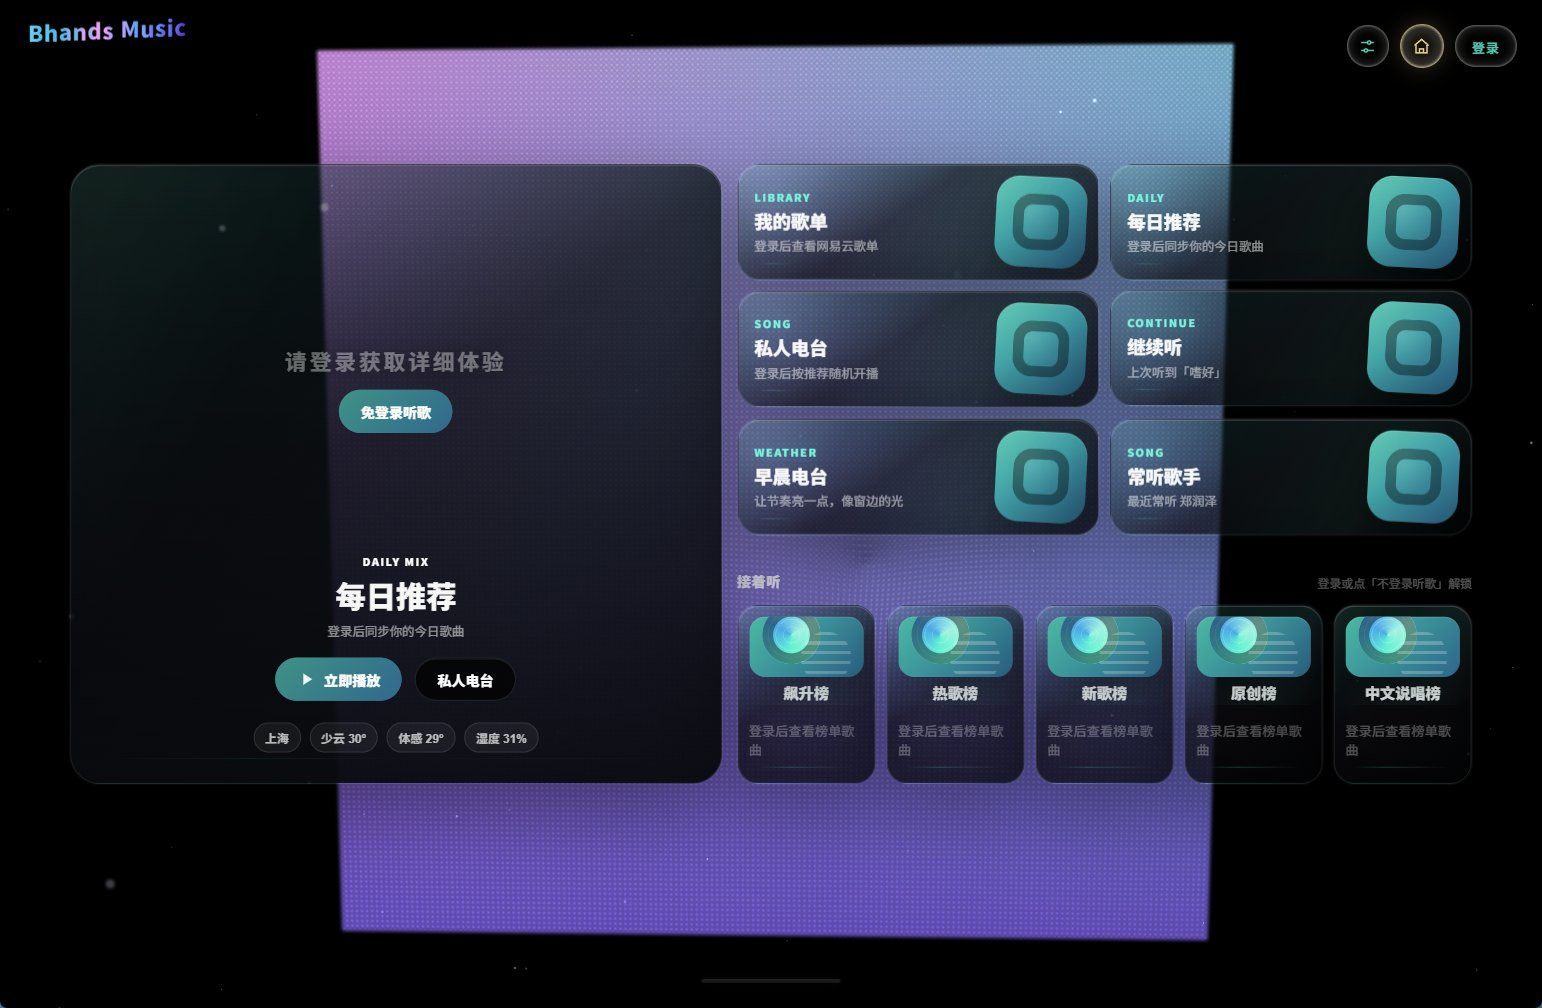
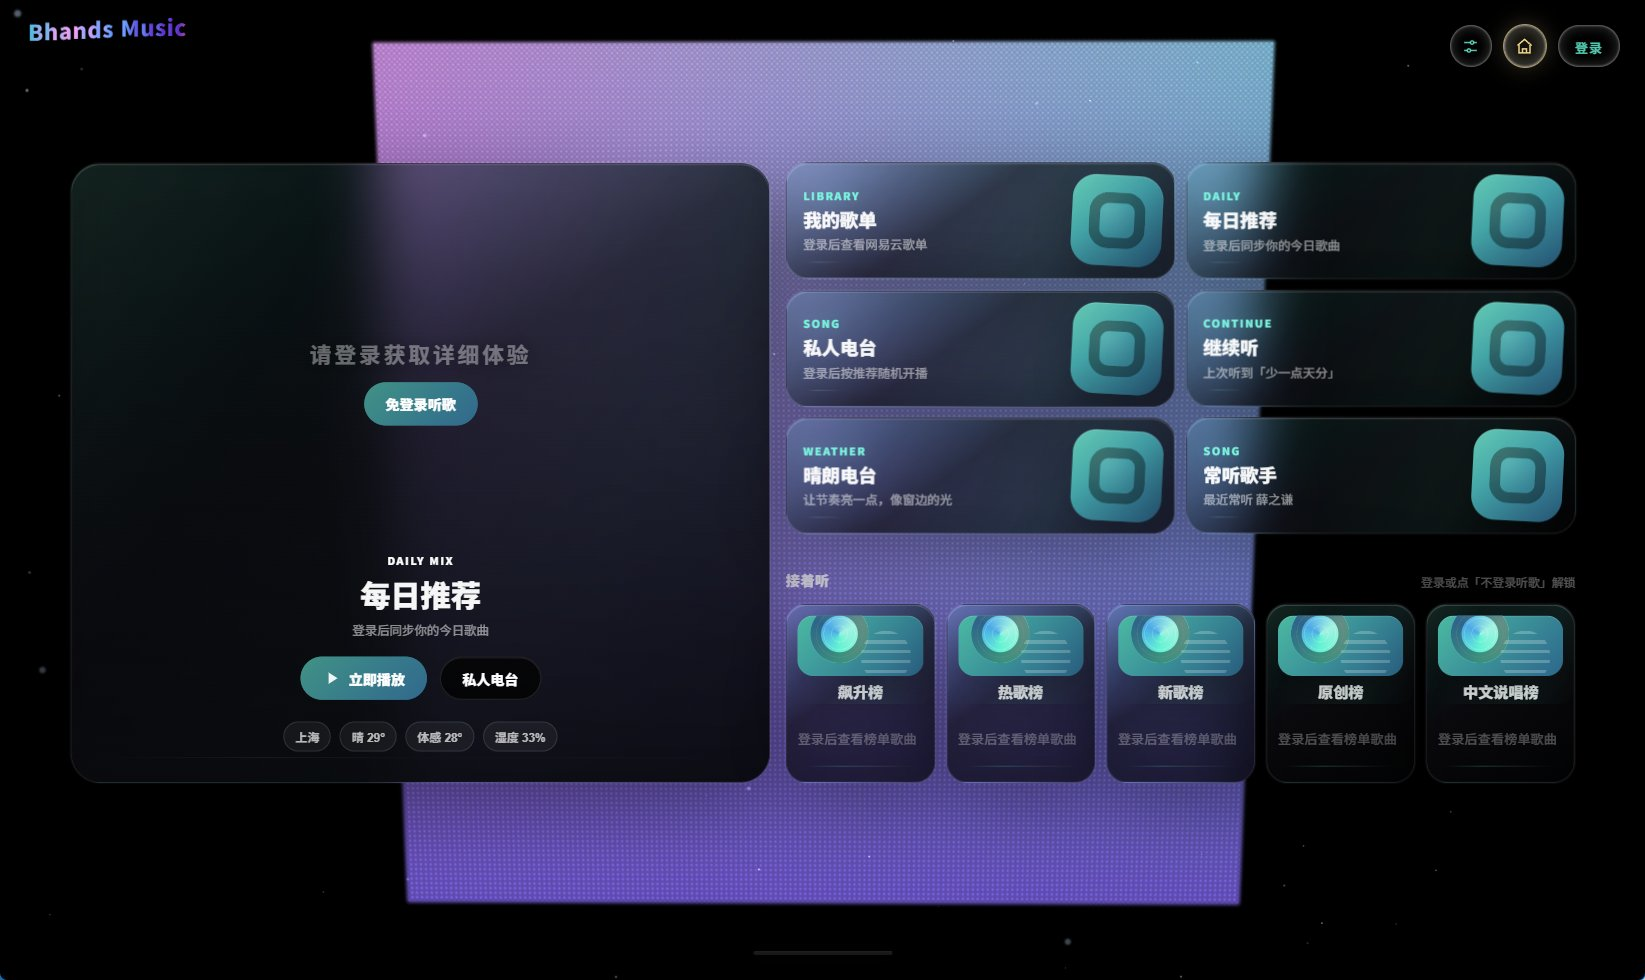
README首页预览换新：三张最新界面截图（未登录/免登录发现页/登录后）三列并排

diff --git a/README.md b/README.md
@@ -15,12 +15,12 @@
 ## ✨ 界面预览
 
 
-**首页**（未登录 / 登录后 / 免登录页）
+**首页**（未登录 / 免登录页 / 登录后）
 
 <p align="center">
-  <img src="docs/screenshots/02-home-guest.jpg" width="49%" alt="未登录首页">
-  <img src="docs/screenshots/03-home-logged-in.jpg" width="49%" alt="登录后首页">
-  <img src="docs/screenshots/19-home-discover.jpg" width="720" alt="免登录页">
+  <img src="docs/screenshots/02-home-guest.jpg" width="32%" alt="未登录首页">
+  <img src="docs/screenshots/19-home-discover.jpg" width="32%" alt="免登录页">
+  <img src="docs/screenshots/03-home-logged-in.jpg" width="32%" alt="登录后首页">
 </p>
 
 
